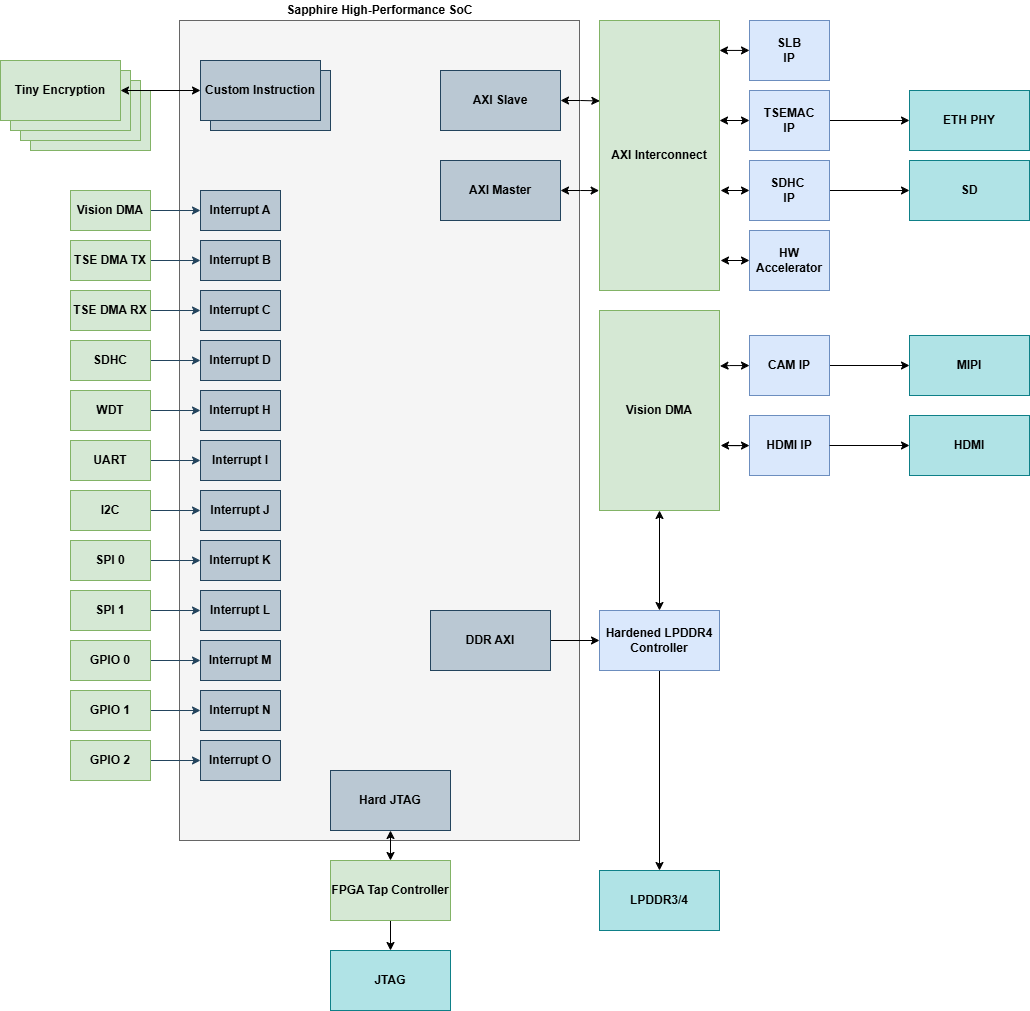
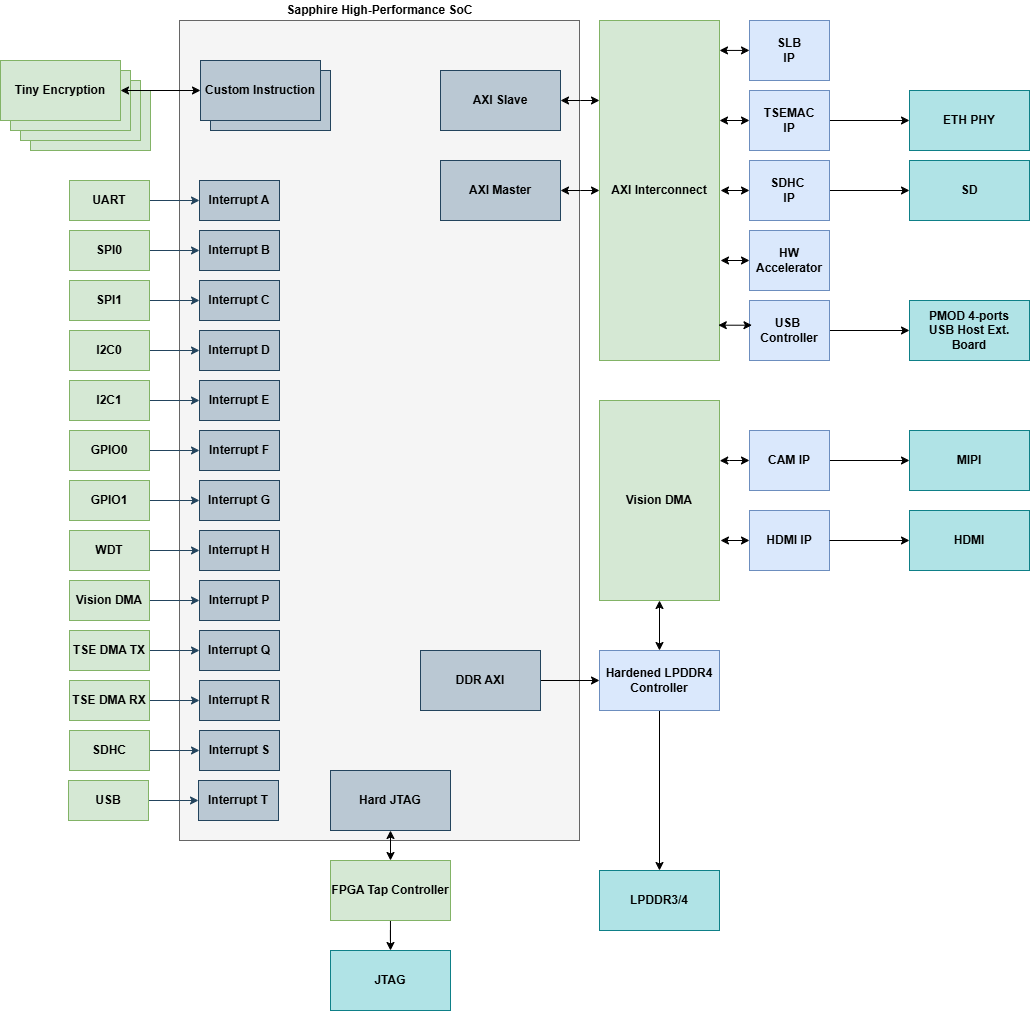
UG: Update Diagram.

diff --git a/README.md b/README.md
@@ -166,11 +166,13 @@ Available Embedded Software Demo:
   +---source
   ¦   +---submodules
   ¦        +---cam
-  ¦        +---common               
+  ¦        +---common 
+  ¦        +---ethernet              
   ¦        +---hdmi_display
   ¦        ¦   +---display
   ¦        ¦       +---mif_yuv
-  ¦        +---hw_accel         
+  ¦        +---hw_accel      
+  ¦        +---usb      
 
 ```
 
